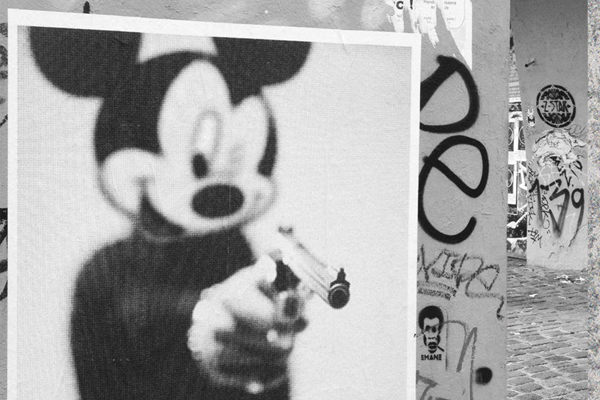
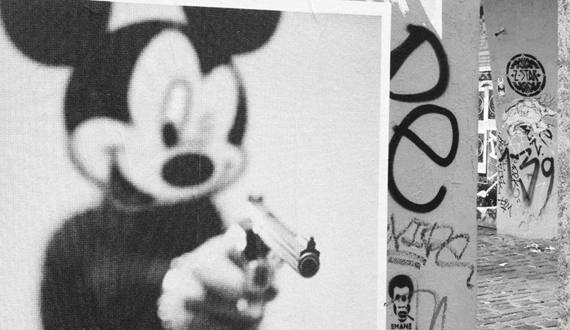
fixing img sizes for chrome

diff --git a/stylesheets/flyer.css b/stylesheets/flyer.css
@@ -45,8 +45,18 @@
 	}
 }
 @media all and (max-width: 550px) and (min-width: 50px) {
+	#flyer {
+		padding: 25px 0px !important;
+		height: auto;
+	}
 	#bigBox {
 		width: 90vw !important;
+	}
+	.pics-slice {
+		flex-direction: column !important;
+	}
+	.pic-slice {
+		max-width: 100% !important;
 	}
 	#bigBox-title.unica {
 		font-size: 12vw !important;
@@ -94,7 +104,6 @@
 	flex-direction: column;
 	justify-content: center;
 }
-
 #bigBox {
 	width: 80vw;
 	display: flex;
@@ -102,6 +111,22 @@
 	align-items: center;
 	border-style: solid;
 	border-width: 2px;
+}
+.pics-slice {
+	display: flex;
+	flex-direction: row;
+	width: 100%;
+	background-color: black;
+}
+.pic-slice{
+	max-width: 50%;
+	height: 100%;
+	display: flex;
+	flex-direction: column;
+	align-items: center;
+}
+.pic-slice img {
+	width: 100%;
 }
 #bigBox.raspberry, #bigBox.night, #bigBox.violet {
 	border-color: black;

diff --git a/stylesheets/content.css b/stylesheets/content.css
@@ -8,18 +8,8 @@
 
 }
 @media all and (max-width: 800px) and (min-width: 50px) {
-	#flyer {
-		padding: 25px 0px !important;
-		height: auto;
-	}
 	#box-band {
 		padding: 15px 0px 15px 0px !important;
-	}
-	.pics-slice {
-		flex-direction: column !important;
-	}
-	.pic-slice {
-		max-width: 100% !important;
 	}
 	.pictoBox {
 		width: 70px !important;
@@ -37,18 +27,7 @@
 	}
 }
 
-.pics-slice {
-	display: flex;
-	flex-direction: row;
-	width: 100%;
-	background-color: black;
-}
-.pic-slice{
-	max-width: 50%;
-	display: flex;
-	flex-direction: column;
-	align-items: center;
-}
+
 .half-slice {
 	width: 50%;
 	display: flex;

diff --git a/flyer.html b/flyer.html
@@ -19,7 +19,7 @@
 			<img src="img/1.jpg">
 		</div>
 		<div class="pic-slice">
-			<img src="img/2.jpg">
+			<img src="img/2.png">
 		</div>
 	</div>
 </div>

diff --git a/stylesheets/style.css b/stylesheets/style.css
@@ -23,7 +23,7 @@ body {
 /*Default elements setting*/
 img {
 	margin: auto;
-	width: -moz-available;
+	width: 100%;
 }
 h1 {
 	margin: unset;
